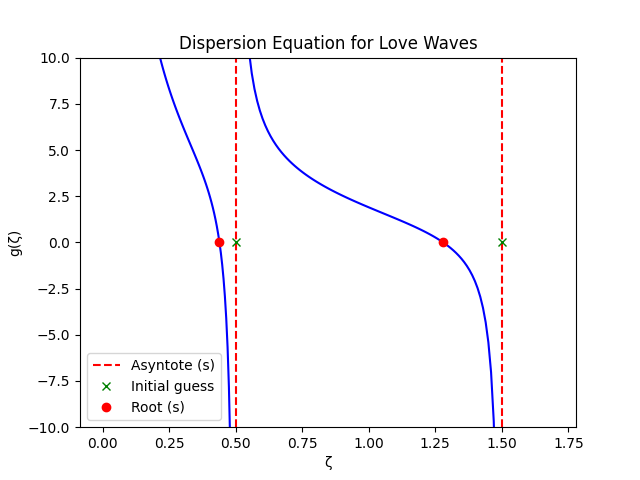
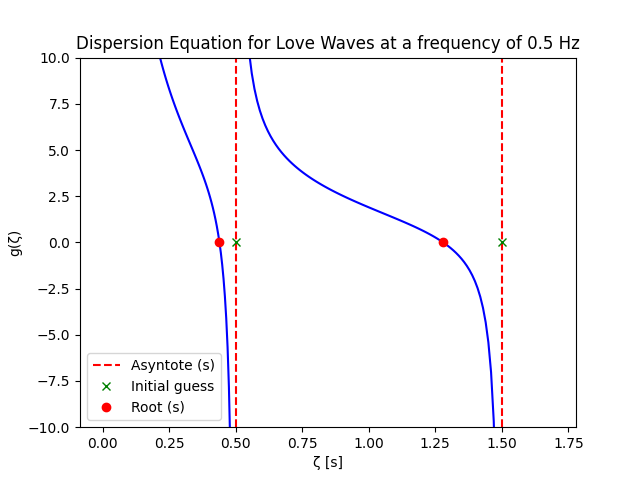
updating some changes

Changed region(s): [[0.125, 0.0625, 0.9062, 0.125], [0.5, 0.9375, 0.5312, 1.0]]

diff --git a/examples/dispersion_equation.py b/examples/dispersion_equation.py
@@ -10,7 +10,7 @@ beta2 = 3200 # [m/s] shear wave of layer 2
 H = 4000 # [m] thickness of layer 1
 
 zmax = H * ((beta1**-2) - (beta2**-2))**0.5 
-#print (zmax) 
+print (zmax) 
 
 f = 0.1 # [Hz] frequency of the wave
 
@@ -60,25 +60,25 @@ frequencies = [0.2, 0.5, 0.8, 1, 2, 3, 5, 7, 9, 10] # [Hz] frequency of the wave
 roots_storage = []
 
 
-for i, f in enumerate(frequencies):
+for i, f in enumerate(frequencies): 
     mode = 0 # Initialize the mode
     roots_for_frequency = [] # List to store roots for the current frequency
     def intersection(z):
         return (ro2/ro1)*np.sqrt((H**2)*((beta1**-2)-(beta2**-2))-z**2)/z - np.tan(2*np.pi*f*z)
     
     plt.figure ()
-    za_mode0 = 0
+    za_mode0 = 0 # Initialize the asymptotic value for mode 0
 
     while mode < 3:
         za_mode = (0.25/f)*(2*mode+1) # Asymptotic value of the mode 0
         if za_mode < zmax:
-            z0 = za_mode - 1e-5
+            z0 = za_mode - 1e-5 # Initial guess for the root
             
             zplt = np.linspace(za_mode0 + 1e-6, za_mode - 1e-6, 100) # Create a range of values around the asymptotic value
             plt.plot(zplt, intersection(zplt), color='b')
             plt.axvline(x=za_mode, color='r', linestyle='--', label = 'Asyntote (s)' if mode == 0 else "_nolabel_") # Plot the asymptotic values
             
-            za_mode0 = za_mode
+            za_mode0 = za_mode # Update the value of the asymptotic value for the next mode
                                     
         else:
             z0 = zmax - 1e-6
@@ -97,10 +97,7 @@ for i, f in enumerate(frequencies):
         
         plt.plot (z0, 0, 'xg', label= 'Initial guess' if mode == 0 else "_nolabel_")
         plt.plot (root, intersection(root),'ro', label= 'Root (s)' if mode == 0 else "_nolabel_") 
-                                 
-        #print(f'Initial guess (z0) for mode {mode} and frequency {f} Hz is {z0}')
-        #print(f'Root for mode {mode} and frequency {f} Hz is {root}')
-        
+          
         if za_mode > zmax:
             break
         
@@ -109,14 +106,13 @@ for i, f in enumerate(frequencies):
     roots_storage.append(roots_for_frequency) # Store the roots for the current frequency5
     plt.ylim (-10, 10)
     #plt.xlim(0, zmax)
-    plt.title('Dispersion Equation for Love Waves')
-    plt.xlabel('\u03B6')
+    plt.title(f'Dispersion Equation for Love Waves at a frequency of {f} Hz')
+    plt.xlabel('\u03B6 [s]')
     plt.ylabel('g(\u03B6)')
     plt.legend()  
     plt.savefig (f'figures/roots_frequencies_{f}.png')
-    
-    
-print(roots_storage)
+        
+#print(roots_storage)
 
 velocities = []
 lambdas = []
@@ -165,7 +161,7 @@ plt.figure()
 plt.plot(frequencies_modes[0], lambda_modes[0], '-', label='Mode 0')
 plt.plot(frequencies_modes[1], lambda_modes[1], '-', label='Mode 1')
 plt.plot(frequencies_modes[2], lambda_modes[2], '-', label='Mode 2')
-plt.xlim (0, 6)
+plt.xlim (0, 10)
 plt.ylim(0, 5000)
 plt.title('Wavelength vs Frequency for Modes 0, 1 and 2')
 plt.xlabel('Frequency [Hz]')

diff --git a/tests/test_secant_modified.py b/tests/test_secant_modified.py
@@ -8,7 +8,7 @@ class TestSecantModified1(unittest.TestCase):
         
     def test_secant_modified(self):
         self.x0 = 1.0
-        self.dx = 1.2
+        self.dx = 0.5
         estimation = root_secant_modified(self.x0,self.dx,self.f)
         actual = 0.5
         self.assertAlmostEqual(estimation[0], actual)

diff --git a/src/goph420_lab02/root_finding.py b/src/goph420_lab02/root_finding.py
@@ -49,7 +49,7 @@ def root_secant_modified(x0, dx, f):
 # """
 # Compute root finding using modified secant method.
 
-#     Inputs
+#     Inputs 
 #     ------
 #     x0 : float
 #         Initial guess for the root.
